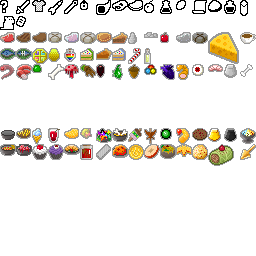
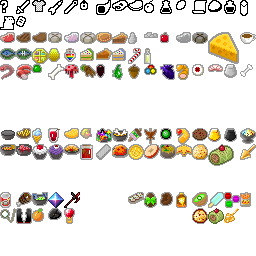
将饭桶地牢独有的一些杂项消耗品也移动到foodsprites

Changed region(s): [[0.5, 0.75, 1.0, 0.875], [0.0, 0.75, 0.3125, 0.875]]

diff --git a/core/src/main/java/com/shatteredpixel/shatteredpixeldungeon/items/MagicMonocle.java b/core/src/main/java/com/shatteredpixel/shatteredpixeldungeon/items/MagicMonocle.java
@@ -1,11 +1,13 @@
 package com.shatteredpixel.shatteredpixeldungeon.items;
 
+import com.shatteredpixel.shatteredpixeldungeon.Assets;
 import com.shatteredpixel.shatteredpixeldungeon.Dungeon;
 import com.shatteredpixel.shatteredpixeldungeon.actors.Actor;
 import com.shatteredpixel.shatteredpixeldungeon.actors.buffs.Awareness;
 import com.shatteredpixel.shatteredpixeldungeon.actors.buffs.Buff;
 import com.shatteredpixel.shatteredpixeldungeon.actors.buffs.FlavourBuff;
 import com.shatteredpixel.shatteredpixeldungeon.actors.hero.Hero;
+import com.shatteredpixel.shatteredpixeldungeon.sprites.itemsprites.FoodSpriteSheet;
 import com.shatteredpixel.shatteredpixeldungeon.sprites.itemsprites.ItemSpriteSheet;
 import com.shatteredpixel.shatteredpixeldungeon.ui.BuffIndicator;
 
@@ -16,7 +18,9 @@ public class MagicMonocle extends Item{
     public static final String AC_USE = "USE";
 
     {
-        image = ItemSpriteSheet.MONOCLE;
+        texture = Assets.Items.FOODS;
+        film = FoodSpriteSheet.film;
+        image = FoodSpriteSheet.MONOCLE;
 
         stackable = true;
     }

diff --git a/core/src/main/java/com/shatteredpixel/shatteredpixeldungeon/items/InsulatedGloves.java b/core/src/main/java/com/shatteredpixel/shatteredpixeldungeon/items/InsulatedGloves.java
@@ -1,8 +1,10 @@
 package com.shatteredpixel.shatteredpixeldungeon.items;
 
+import com.shatteredpixel.shatteredpixeldungeon.Assets;
 import com.shatteredpixel.shatteredpixeldungeon.actors.buffs.Buff;
 import com.shatteredpixel.shatteredpixeldungeon.actors.buffs.MagicImmune;
 import com.shatteredpixel.shatteredpixeldungeon.actors.hero.Hero;
+import com.shatteredpixel.shatteredpixeldungeon.sprites.itemsprites.FoodSpriteSheet;
 import com.shatteredpixel.shatteredpixeldungeon.sprites.itemsprites.ItemSpriteSheet;
 
 import java.util.ArrayList;
@@ -12,7 +14,9 @@ public class InsulatedGloves extends Item{
     public static final String AC_USE = "USE";
 
     {
-        image = ItemSpriteSheet.INS_GLOVES;
+        texture = Assets.Items.FOODS;
+        film = FoodSpriteSheet.film;
+        image = FoodSpriteSheet.INS_GLOVES;
 
         stackable = true;
     }

diff --git a/core/src/main/java/com/shatteredpixel/shatteredpixeldungeon/items/stones/StoneOfDisarming.java b/core/src/main/java/com/shatteredpixel/shatteredpixeldungeon/items/stones/StoneOfDisarming.java
@@ -27,7 +27,7 @@ import com.shatteredpixel.shatteredpixeldungeon.effects.CellEmitter;
 import com.shatteredpixel.shatteredpixeldungeon.effects.Speck;
 import com.shatteredpixel.shatteredpixeldungeon.levels.traps.Trap;
 import com.shatteredpixel.shatteredpixeldungeon.mechanics.ShadowCaster;
-import com.shatteredpixel.shatteredpixeldungeon.sprites.itemsprites.ItemSpriteSheet;
+import com.shatteredpixel.shatteredpixeldungeon.sprites.itemsprites.FoodSpriteSheet;
 import com.watabou.noosa.audio.Sample;
 import com.watabou.utils.Point;
 
@@ -42,7 +42,9 @@ public class StoneOfDisarming extends Runestone {
 	private static final int DIST = 8;
 	
 	{
-		image = ItemSpriteSheet.DISARM_STONE;
+		texture = Assets.Items.FOODS;
+		film = FoodSpriteSheet.film;
+		image = FoodSpriteSheet.DISARM_STONE;
 	}
 
 	@Override

diff --git a/core/src/main/java/com/shatteredpixel/shatteredpixeldungeon/items/weapon/missiles/Xuanmi.java b/core/src/main/java/com/shatteredpixel/shatteredpixeldungeon/items/weapon/missiles/Xuanmi.java
@@ -5,13 +5,15 @@ import com.shatteredpixel.shatteredpixeldungeon.actors.Char;
 import com.shatteredpixel.shatteredpixeldungeon.actors.buffs.Buff;
 import com.shatteredpixel.shatteredpixeldungeon.actors.buffs.Pursued;
 import com.shatteredpixel.shatteredpixeldungeon.messages.Messages;
-import com.shatteredpixel.shatteredpixeldungeon.sprites.itemsprites.ItemSpriteSheet;
+import com.shatteredpixel.shatteredpixeldungeon.sprites.itemsprites.FoodSpriteSheet;
 import com.shatteredpixel.shatteredpixeldungeon.utils.GLog;
 
 public class Xuanmi extends MissileWeapon{
 
     {
-        image = ItemSpriteSheet.XUANMI;
+        texture = Assets.Items.FOODS;
+        film = FoodSpriteSheet.film;
+        image = FoodSpriteSheet.XUANMI;
         hitSound = Assets.Sounds.HIT_STAB;
         hitSoundPitch = 1f;
 

diff --git a/core/src/main/java/com/shatteredpixel/shatteredpixeldungeon/sprites/itemsprites/FoodSpriteSheet.java b/core/src/main/java/com/shatteredpixel/shatteredpixeldungeon/sprites/itemsprites/FoodSpriteSheet.java
@@ -214,7 +214,7 @@ public class FoodSpriteSheet {
         assignItemRect(HONEYARROW,		16, 16);
     }
 
-    private static final int SpecialFood   	=								xy(1, 9);
+    private static final int SpecialFood   	=								xy(1, 13);
     public static final int COLA			= SpecialFood+0;
     public static final int DOGESMEAT		= SpecialFood+1;
     public static final int ZAKOSOUP		= SpecialFood+2;
@@ -228,7 +228,7 @@ public class FoodSpriteSheet {
         assignItemRect(XUANMI, 			16, 16);
     }
 
-    private static final int GOODS   		=								xy(9, 9);
+    private static final int GOODS   		=								xy(9, 13);
     public static final int CHANGFEN		= GOODS+0;
     public static final int CHOCOLATE_EGG	= GOODS+1;
     public static final int EGG_PIECE		= GOODS+2;

diff --git a/core/src/main/java/com/shatteredpixel/shatteredpixeldungeon/items/food/Chocolate_Egg.java b/core/src/main/java/com/shatteredpixel/shatteredpixeldungeon/items/food/Chocolate_Egg.java
@@ -1,5 +1,6 @@
 package com.shatteredpixel.shatteredpixeldungeon.items.food;
 
+import com.shatteredpixel.shatteredpixeldungeon.Assets;
 import com.shatteredpixel.shatteredpixeldungeon.Challenges;
 import com.shatteredpixel.shatteredpixeldungeon.Dungeon;
 import com.shatteredpixel.shatteredpixeldungeon.actors.Actor;
@@ -108,7 +109,9 @@ public class Chocolate_Egg extends Food{
         public static final String AC_COMPOUND = "COMPOUND";
 
         {
-            image = ItemSpriteSheet.EGG_PIECE;
+            texture = Assets.Items.FOODS;
+            film = FoodSpriteSheet.film;
+            image = FoodSpriteSheet.EGG_PIECE;
 
             stackable = true;
         }

diff --git a/core/src/main/java/com/shatteredpixel/shatteredpixeldungeon/items/MysteryBone.java b/core/src/main/java/com/shatteredpixel/shatteredpixeldungeon/items/MysteryBone.java
@@ -1,11 +1,14 @@
 package com.shatteredpixel.shatteredpixeldungeon.items;
 
-import com.shatteredpixel.shatteredpixeldungeon.sprites.itemsprites.ItemSpriteSheet;
+import com.shatteredpixel.shatteredpixeldungeon.Assets;
+import com.shatteredpixel.shatteredpixeldungeon.sprites.itemsprites.FoodSpriteSheet;
 
 public class MysteryBone extends Item{
 
     {
-        image = ItemSpriteSheet.MYSTERYBONE;
+        texture = Assets.Items.FOODS;
+        film = FoodSpriteSheet.film;
+        image = FoodSpriteSheet.MYSTERYBONE;
         stackable = true;
     }
 

diff --git a/core/src/main/java/com/shatteredpixel/shatteredpixeldungeon/items/SlimeBlob.java b/core/src/main/java/com/shatteredpixel/shatteredpixeldungeon/items/SlimeBlob.java
@@ -1,11 +1,14 @@
 package com.shatteredpixel.shatteredpixeldungeon.items;
 
-import com.shatteredpixel.shatteredpixeldungeon.sprites.itemsprites.ItemSpriteSheet;
+import com.shatteredpixel.shatteredpixeldungeon.Assets;
+import com.shatteredpixel.shatteredpixeldungeon.sprites.itemsprites.FoodSpriteSheet;
 
 public class SlimeBlob extends Item{
 
     {
-        image = ItemSpriteSheet.SLIMEBLOB;
+        texture = Assets.Items.FOODS;
+        film = FoodSpriteSheet.film;
+        image = FoodSpriteSheet.SLIMEBLOB;
         stackable = true;
     }
 
